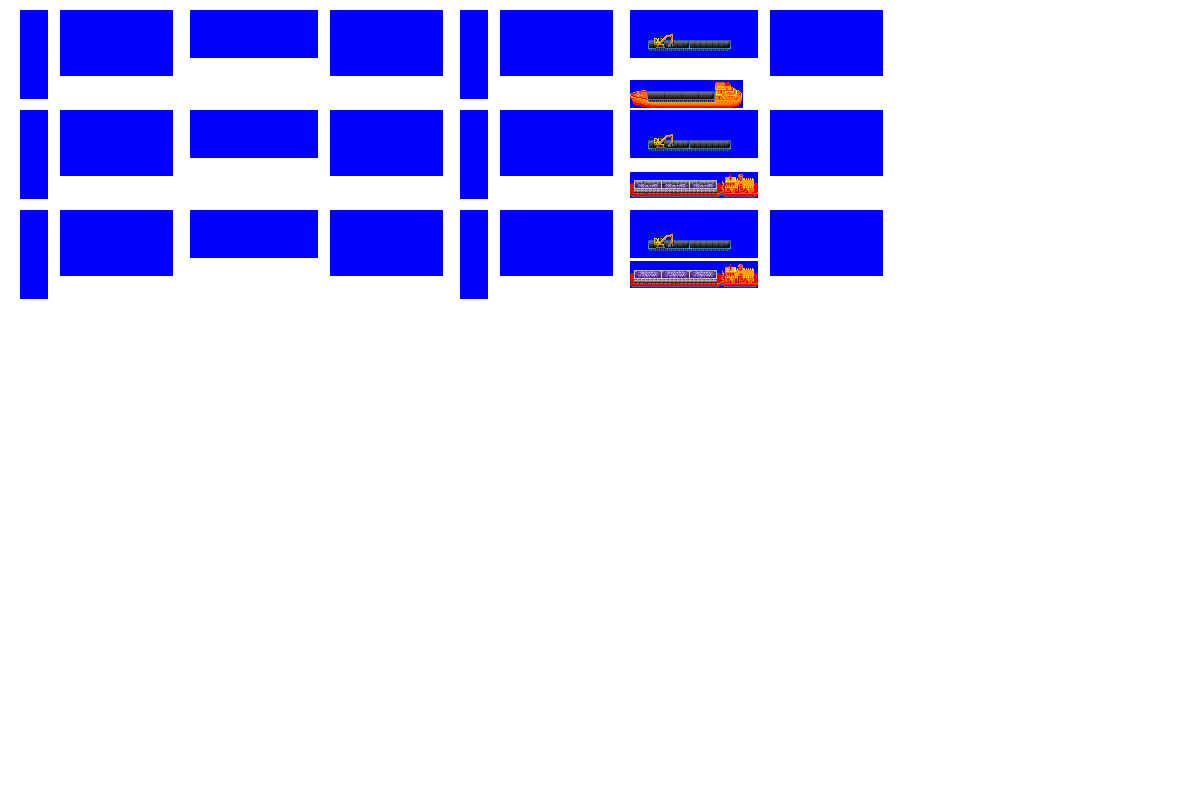
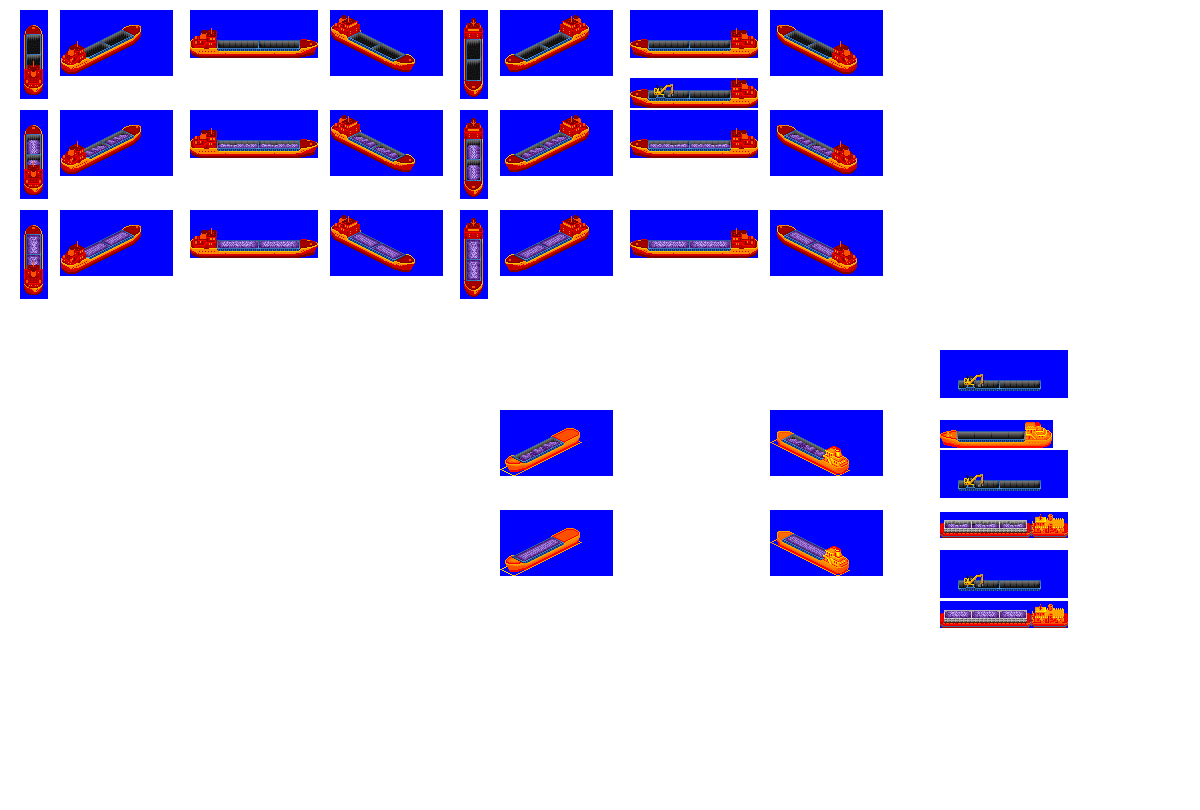
Change: WIP on Alligator mini bulker sprites

diff --git a/src/vehicles/bulk_ships.py b/src/vehicles/bulk_ships.py
@@ -69,5 +69,5 @@ def main():
         subtype="F",
         hull="ShipHouseRear",
         effect_type="EFFECT_SPRITE_DIESEL",
-        sprites_complete=False,
+        sprites_complete=False, # needed wake sprites and smoke positions sorting - done yet?
     )
